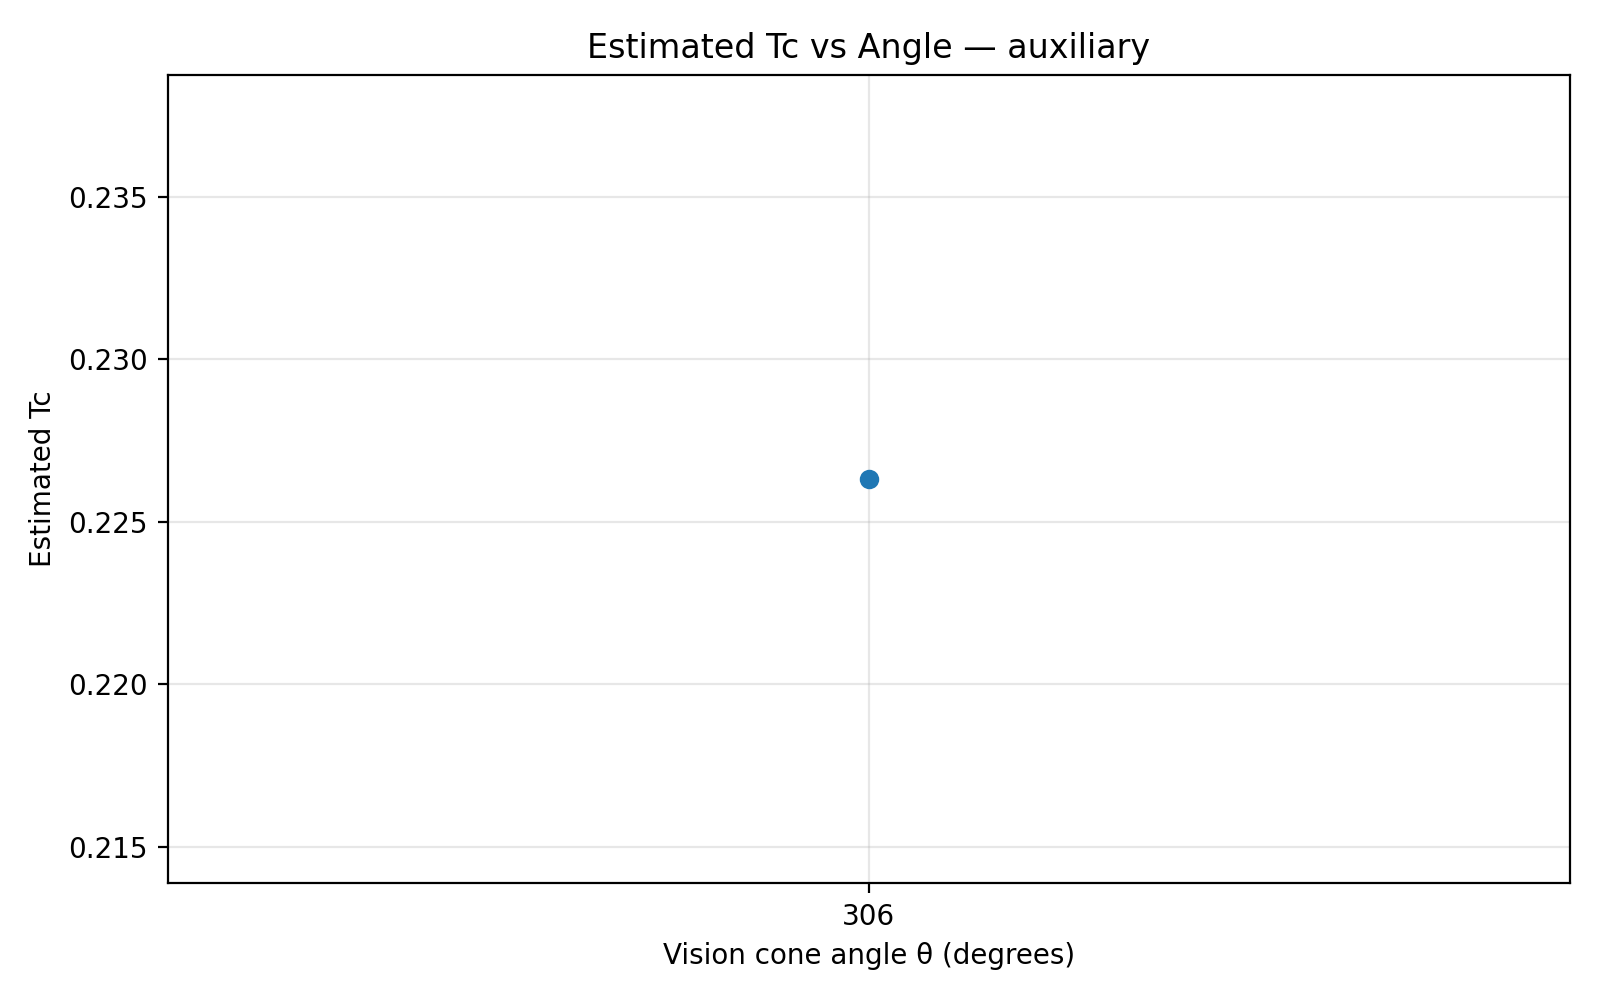
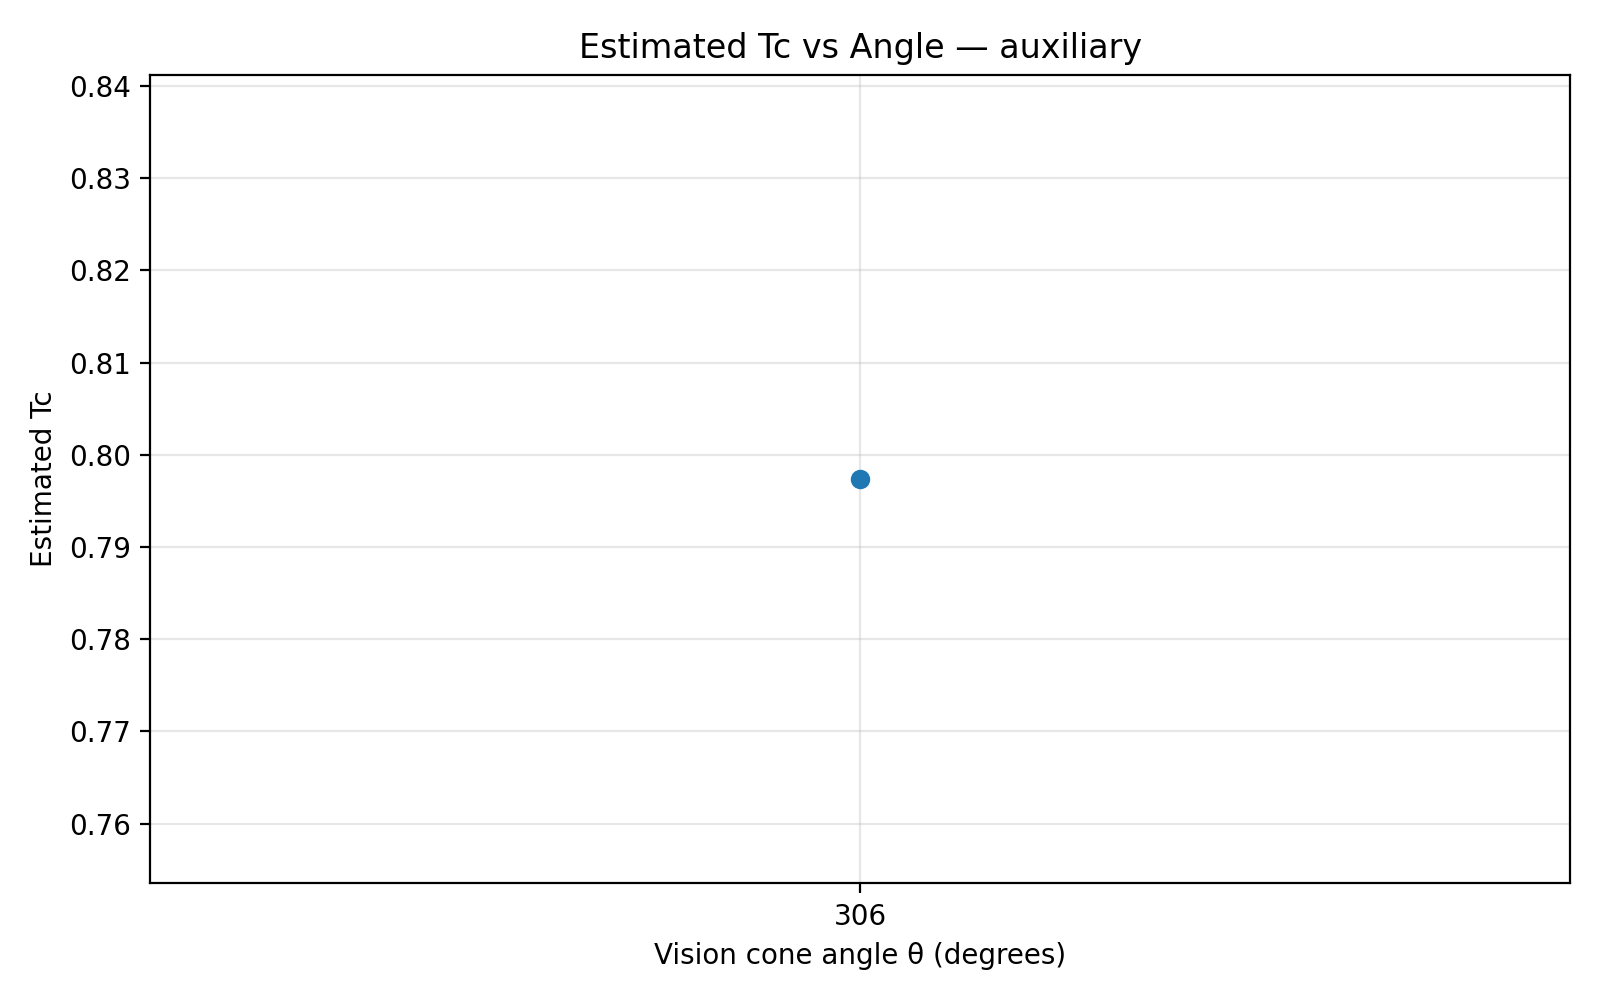
final simuation complete

diff --git a/src/runner.py b/src/runner.py
@@ -26,9 +26,9 @@ MODE = args.mode
 # ----------------------------
 
 L = 50
-T_list = np.linspace(0.02, 1, 20)
+T_list = np.linspace(0.75, 0.90, 50)
 cone_list = [306]
-N_RUNS = 1
+N_RUNS = 10
 
 OUTPUT_DIR = f"{MODE}_results"
 os.makedirs(OUTPUT_DIR, exist_ok=True)
@@ -61,7 +61,7 @@ for theta in cone_list:
                 L=L,
                 T=T,
                 theta_deg=theta,
-                init="disordered"
+                init="ordered"
             )
 
             m_vals.append(out["m"])

diff --git a/src/auxiliary.py b/src/auxiliary.py
@@ -174,7 +174,7 @@ def compute_mxy(theta):
 # =========================
 # MAIN API (MATCH DRIVER)
 # =========================
-
+@njit(cache=True, fastmath=True)
 def run_simulation(L, T, theta_deg, init="disordered"):
     """
     theta_deg : full vision cone angle in degrees.
